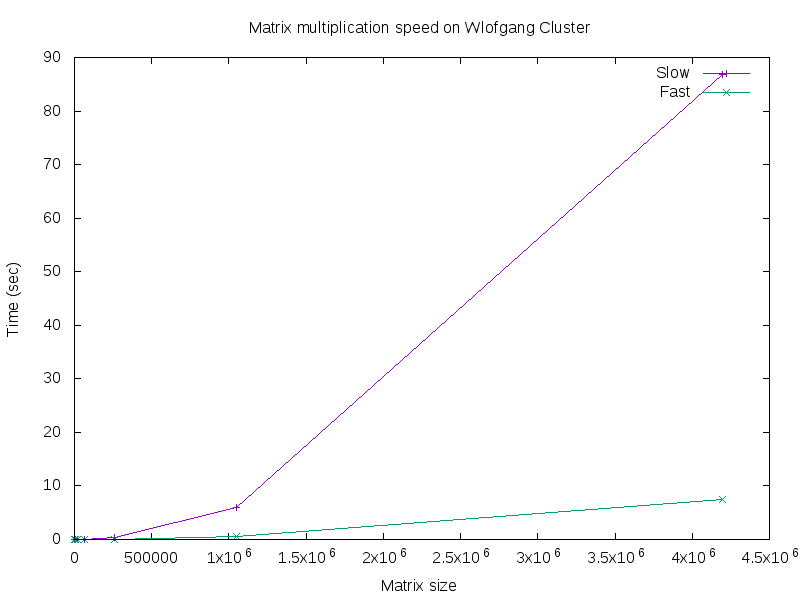
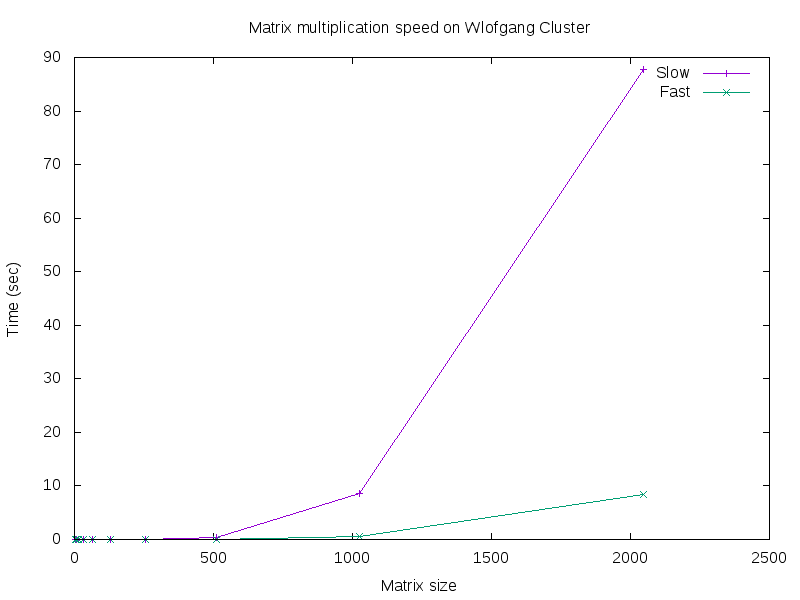
Updated matrix size display to shwo sqrrt

diff --git a/postProc.py b/postProc.py
@@ -2,6 +2,7 @@
 # -*- coding: utf-8 -*-
 
 from collections import OrderedDict
+import math
 
 if __name__ == "__main__":
     file_a = []
@@ -25,6 +26,9 @@ if __name__ == "__main__":
     for entry in types:
         with open(entry + ".txt", "w") as procFile:
             for size in types[entry]:
-                procFile.write(size + ", " + types[entry][size] + "\n");
+                val = int(size)
+                val = int(math.sqrt(val))
+                
+                procFile.write(str(val) + ", " + types[entry][size] + "\n");
 
     
